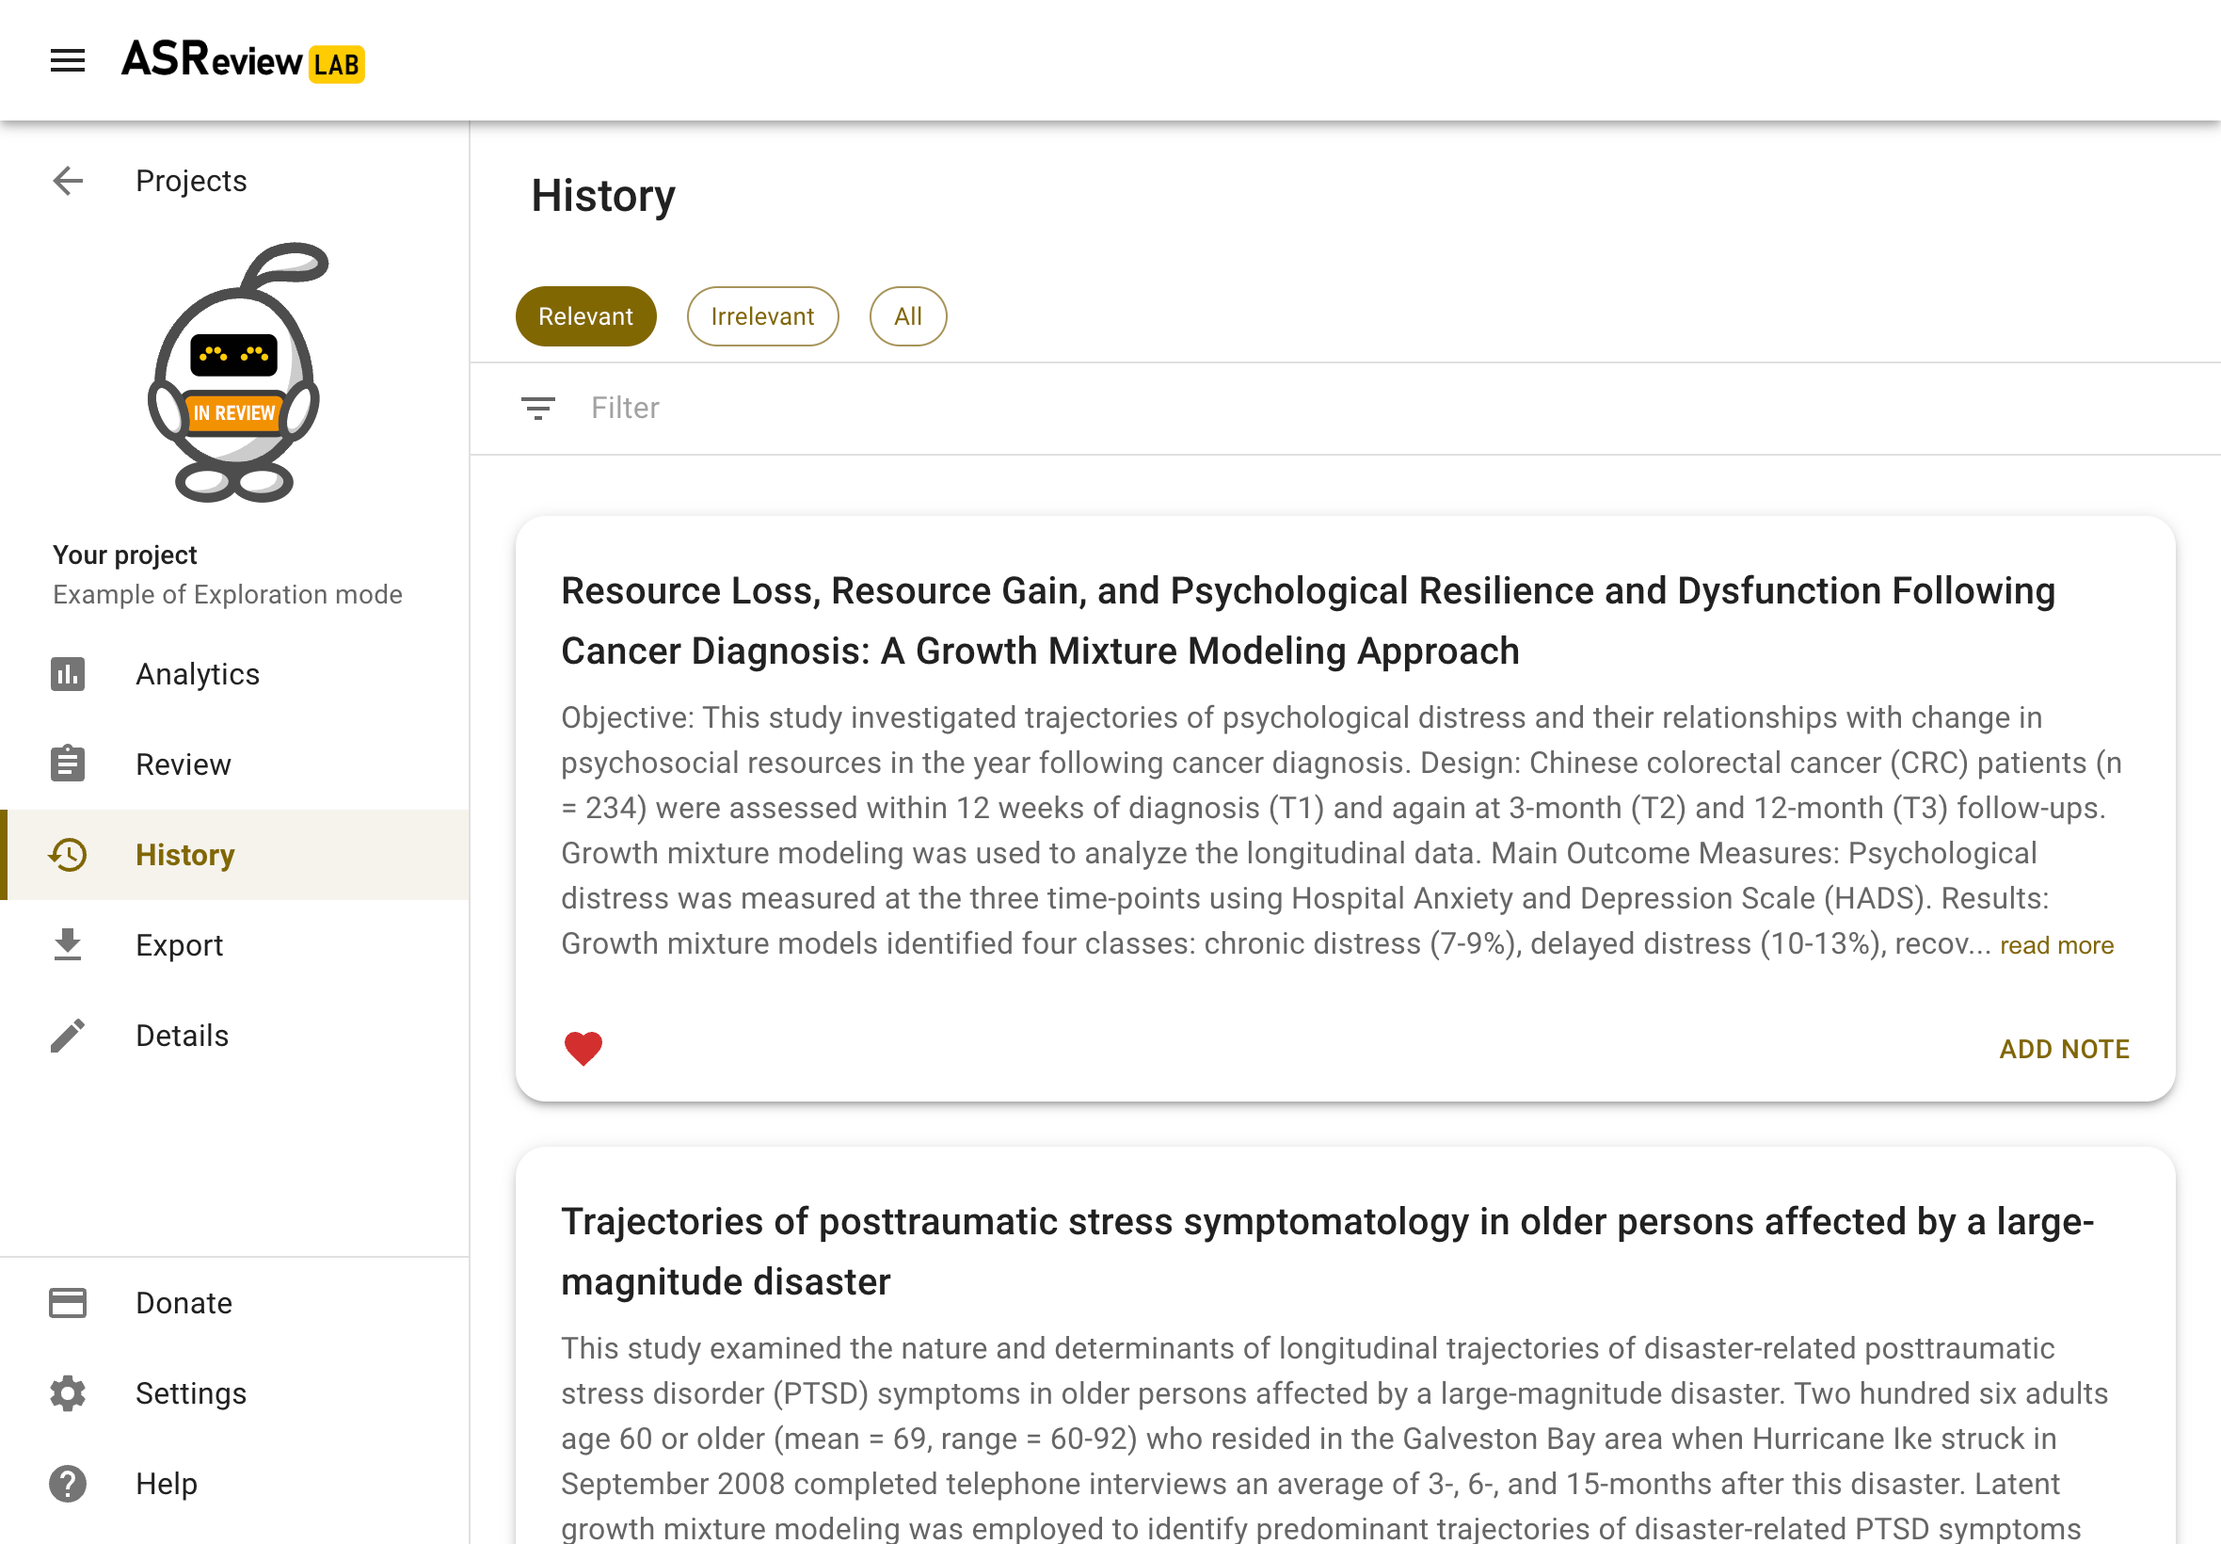
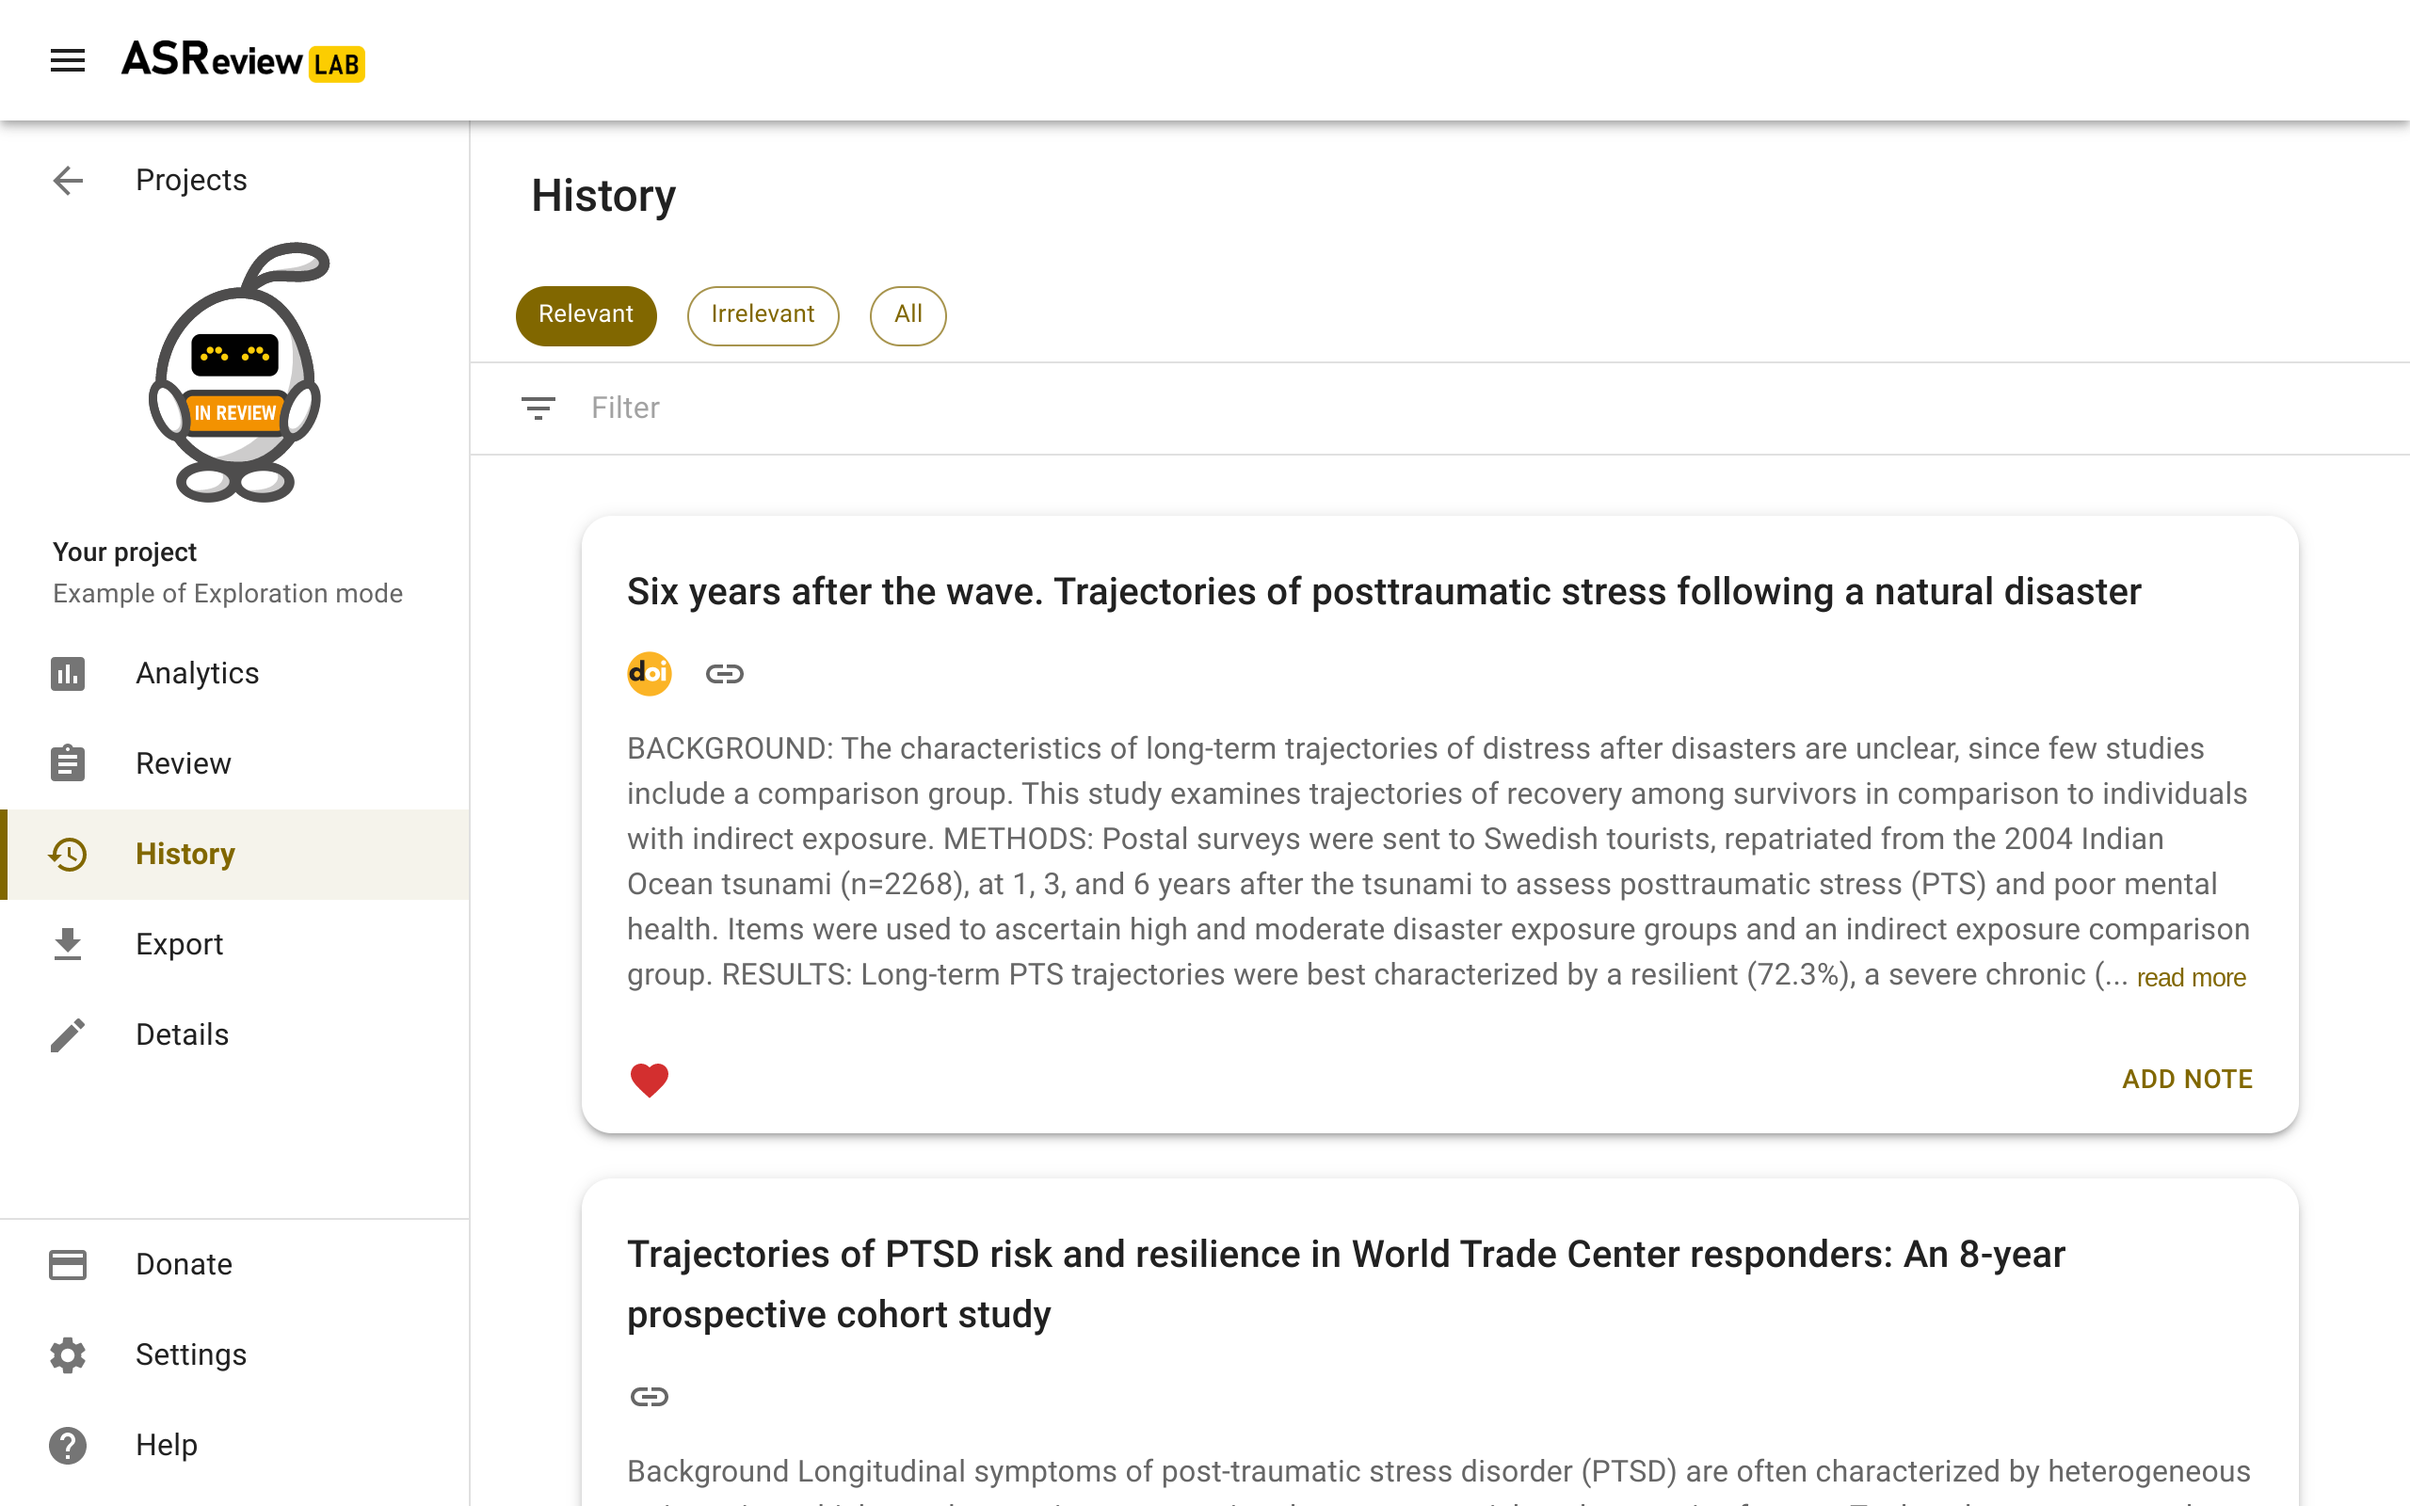
Display DOI/URL of labeled records on History page (#1176)

diff --git a/asreview/webapp/src/ProjectComponents/HistoryComponents/LabeledRecordCard.js b/asreview/webapp/src/ProjectComponents/HistoryComponents/LabeledRecordCard.js
@@ -17,12 +17,19 @@ import {
 } from "@mui/material";
 import { styled } from "@mui/material/styles";
 
-import { LabelOff, Favorite, FavoriteBorder } from "@mui/icons-material";
+import {
+  LabelOff,
+  Link as LinkIcon,
+  Favorite,
+  FavoriteBorder,
+} from "@mui/icons-material";
 
 import { InlineErrorHandler } from "../../Components";
 import { RecordCardNote } from "../HistoryComponents";
+import { StyledIconButton } from "../../StyledComponents/StyledButton.js";
 import { ProjectAPI } from "../../api/index.js";
 import { mapStateToProps, projectModes } from "../../globals.js";
+import { DOIIcon } from "../../icons";
 
 const PREFIX = "LabeledRecordCard";
 
@@ -173,30 +180,61 @@ const LabeledRecordCard = (props) => {
             .map((value) => (
               <Card elevation={3} className={classes.root} key={value.id}>
                 <CardContent className="record-card-content">
-                  <Typography gutterBottom variant="h6">
-                    {value.title ? value.title : "No title available"}
-                  </Typography>
-                  <TruncateMarkup
-                    lines={value.id === recordReadMore ? Infinity : 6}
-                    ellipsis={
-                      <span>
-                        ...{" "}
-                        <Link
-                          component="button"
-                          underline="none"
-                          onClick={() => setRecordReadMore(value.id)}
-                        >
-                          read more
-                        </Link>
-                      </span>
-                    }
-                  >
-                    <Typography color="textSecondary">
-                      {value.abstract
-                        ? value.abstract
-                        : "No abstract available"}
+                  <Stack spacing={1}>
+                    <Typography variant="h6">
+                      {value.title ? value.title : "No title available"}
                     </Typography>
-                  </TruncateMarkup>
+                    {(value.doi || value.url) && (
+                      <Stack direction="row" spacing={1}>
+                        {/* Show DOI if available */}
+                        {value.doi && (
+                          <StyledIconButton
+                            className="record-card-icon"
+                            href={"https://doi.org/" + value.doi}
+                            target="_blank"
+                            rel="noreferrer"
+                          >
+                            <DOIIcon />
+                          </StyledIconButton>
+                        )}
+
+                        {/* Show URL if available */}
+                        {value.url && (
+                          <Tooltip title="Open URL">
+                            <StyledIconButton
+                              className="record-card-icon"
+                              href={value.url}
+                              target="_blank"
+                              rel="noreferrer"
+                            >
+                              <LinkIcon />
+                            </StyledIconButton>
+                          </Tooltip>
+                        )}
+                      </Stack>
+                    )}
+                    <TruncateMarkup
+                      lines={value.id === recordReadMore ? Infinity : 6}
+                      ellipsis={
+                        <span>
+                          ...{" "}
+                          <Link
+                            component="button"
+                            underline="none"
+                            onClick={() => setRecordReadMore(value.id)}
+                          >
+                            read more
+                          </Link>
+                        </span>
+                      }
+                    >
+                      <Typography color="textSecondary">
+                        {value.abstract
+                          ? value.abstract
+                          : "No abstract available"}
+                      </Typography>
+                    </TruncateMarkup>
+                  </Stack>
                 </CardContent>
                 <CardActions className={classes.cardActions}>
                   <Tooltip

diff --git a/asreview/webapp/src/ProjectComponents/ReviewComponents/RecordCard.js b/asreview/webapp/src/ProjectComponents/ReviewComponents/RecordCard.js
@@ -29,7 +29,6 @@ const classes = {
   titleAbstract: `${PREFIX}-titleAbstract`,
   title: `${PREFIX}-title`,
   abstract: `${PREFIX}-abstract`,
-  icon: `${PREFIX}-icon`,
   note: `${PREFIX}-note`,
 };
 
@@ -69,10 +68,6 @@ const Root = styled("div")(({ theme }) => ({
 
   [`& .${classes.abstract}`]: {
     whiteSpace: "pre-line",
-  },
-
-  [`& .${classes.icon}`]: {
-    paddingLeft: 0,
   },
 
   [`& .${classes.note}`]: {
@@ -183,7 +178,7 @@ const RecordCard = (props) => {
                   props.activeRecord.doi === null
                 ) && (
                   <StyledIconButton
-                    className={classes.icon}
+                    className="record-card-icon"
                     href={"https://doi.org/" + props.activeRecord.doi}
                     target="_blank"
                     rel="noreferrer"
@@ -199,7 +194,7 @@ const RecordCard = (props) => {
                 ) && (
                   <Tooltip title="Open URL">
                     <StyledIconButton
-                      className={classes.icon}
+                      className="record-card-icon"
                       href={props.activeRecord.url}
                       target="_blank"
                       rel="noreferrer"

diff --git a/asreview/webapp/src/App.css b/asreview/webapp/src/App.css
@@ -86,6 +86,9 @@
 .record-card-content {
   padding: 24px 24px 16px 24px;
 }
+.record-card-icon {
+  padding-left: 0px;
+}
 
 .MuiCardActions-root {
   padding: 8px 16px;

diff --git a/asreview/webapp/api.py b/asreview/webapp/api.py
@@ -655,6 +655,8 @@ def api_get_labeled(project):  # noqa: F401
                 "abstract": record.abstract,
                 "authors": record.authors,
                 "keywords": record.keywords,
+                "doi": record.doi,
+                "url": record.url,
                 "included": int(data.loc[i, "label"]),
                 "note": data.loc[i, "notes"],
                 "prior": int(data.loc[i, "prior"])
